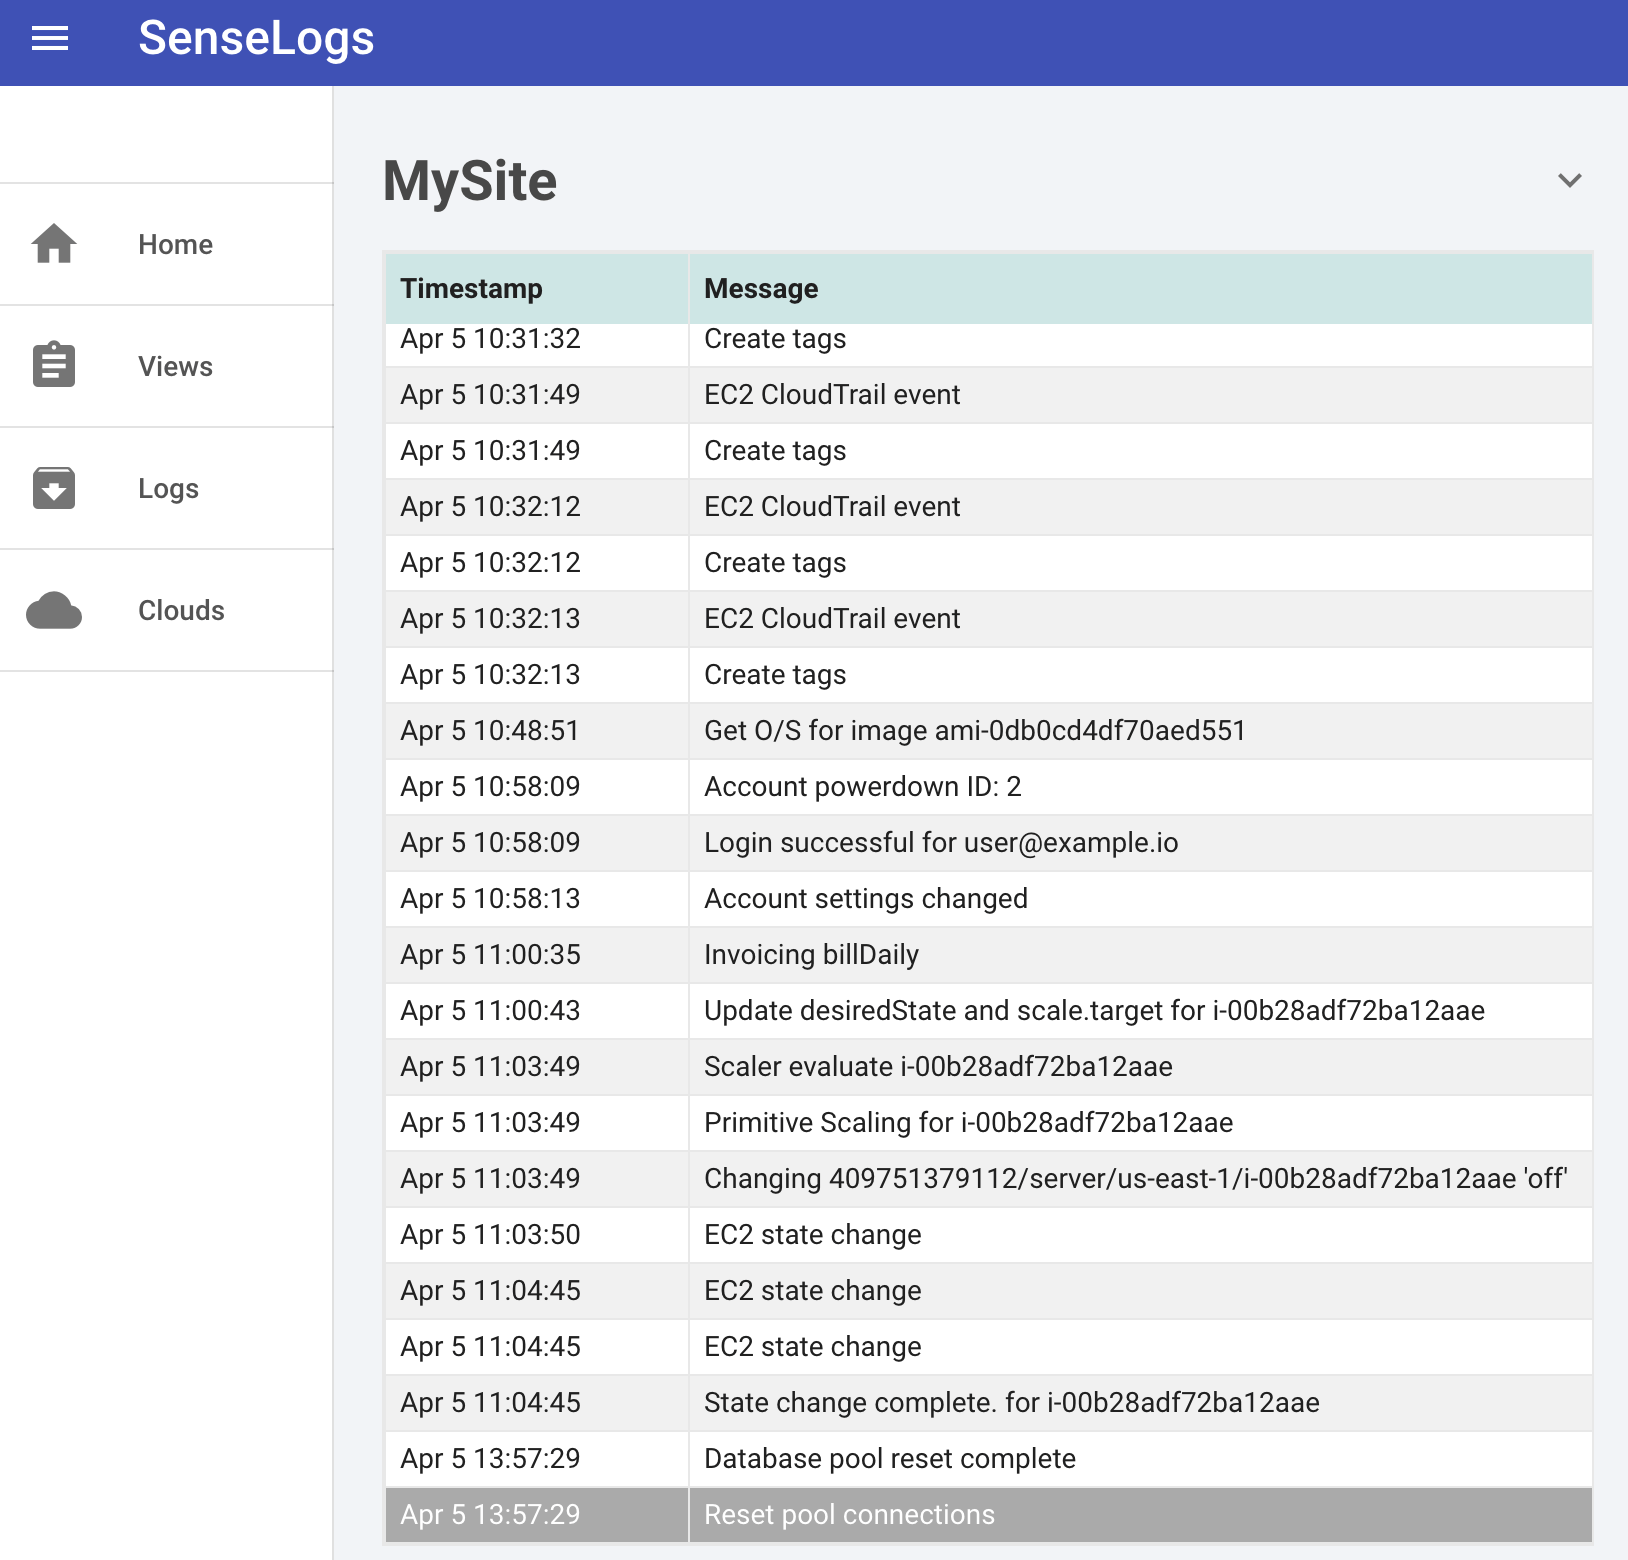
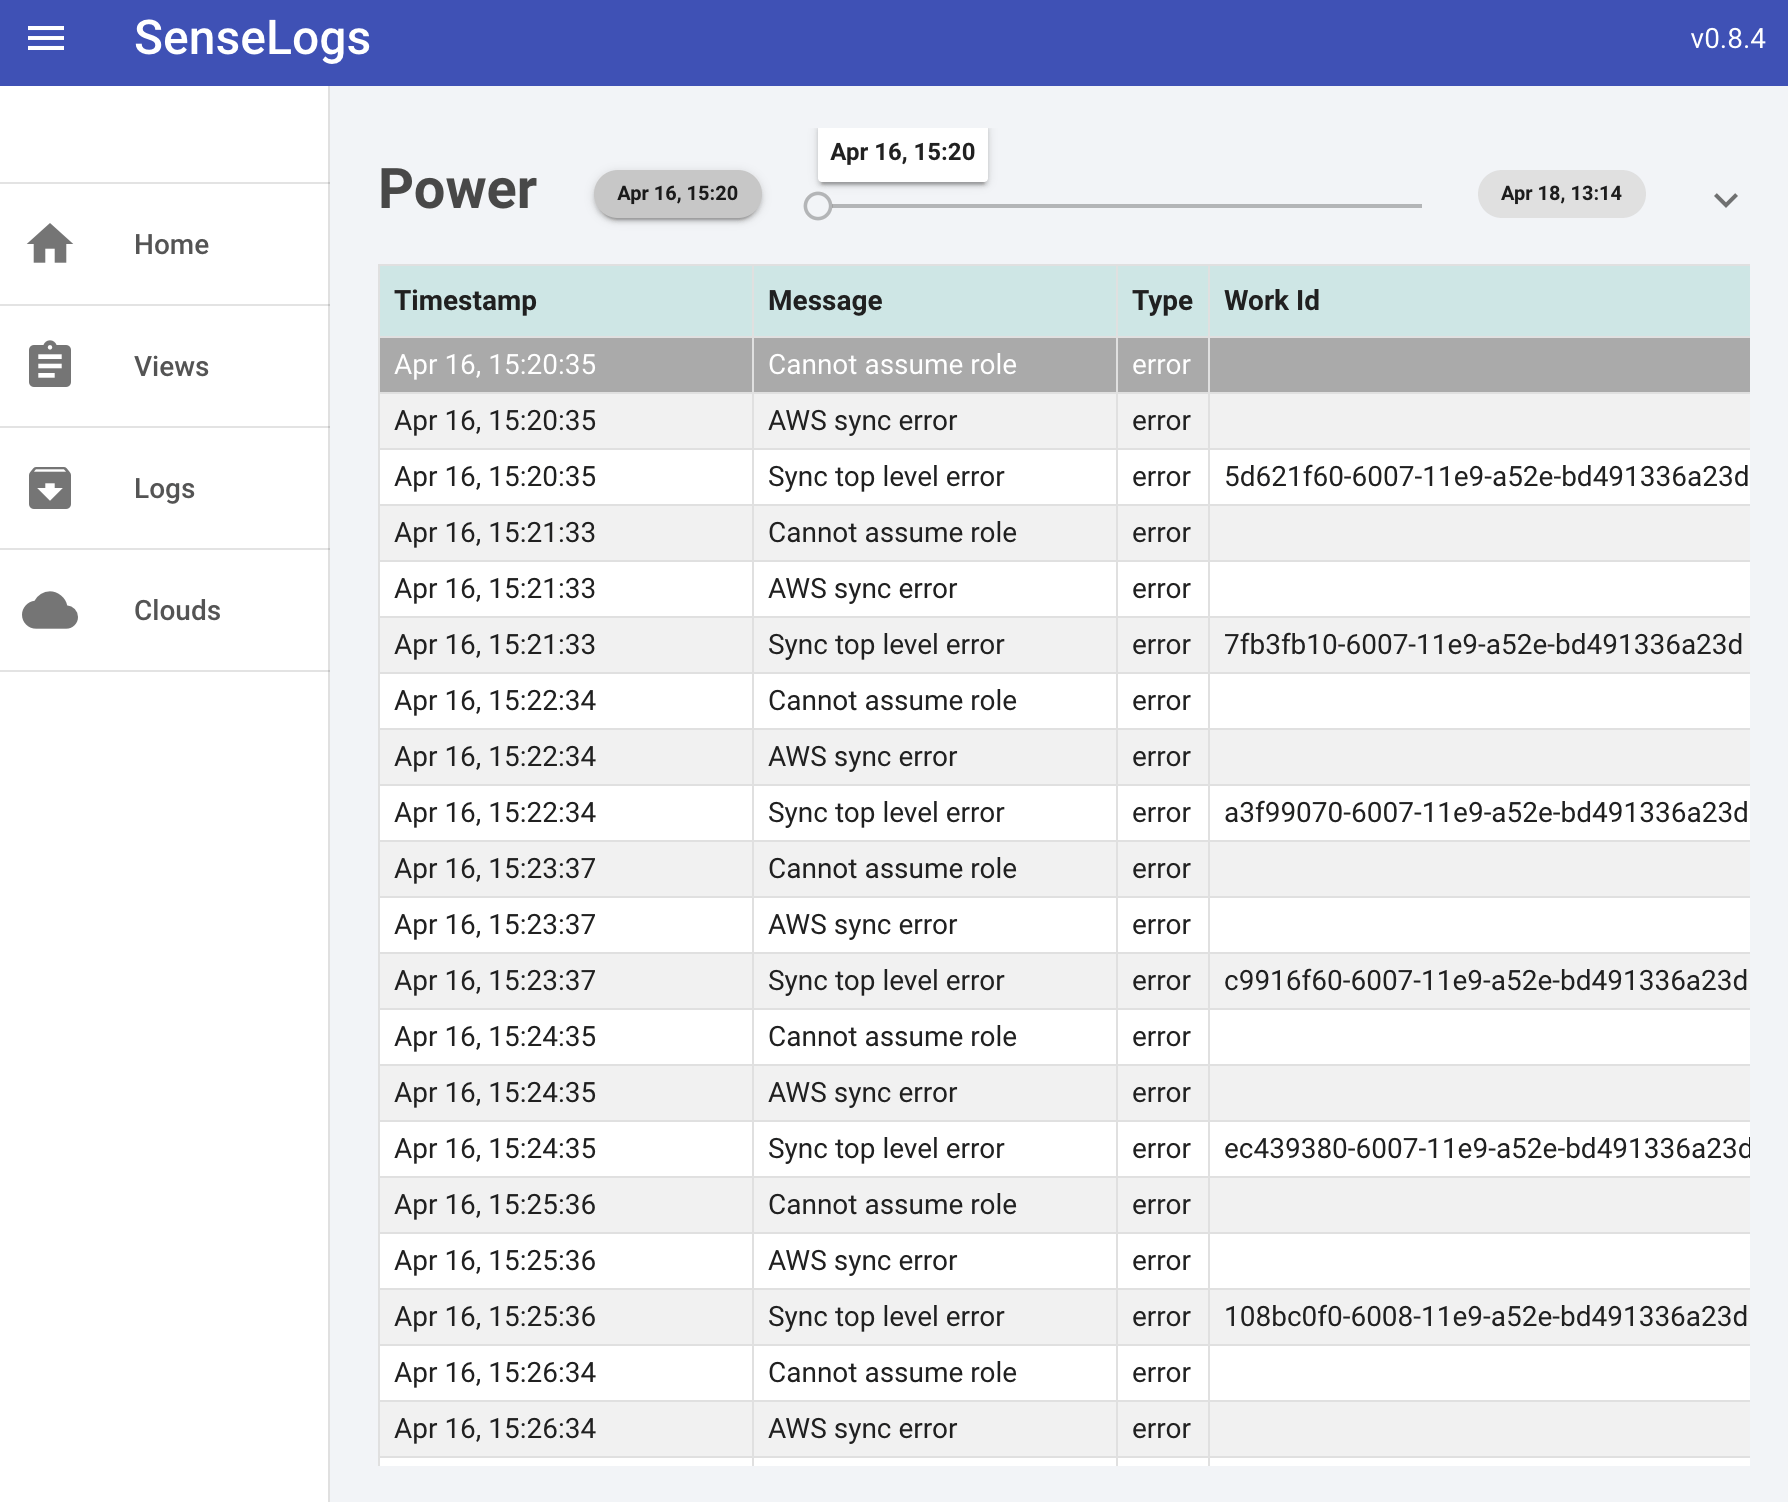
DOC: update images and README for 0.8.4

diff --git a/README.md b/README.md
@@ -39,7 +39,7 @@ This free version has some capacity limits. You can configure one AWS cloud acco
 
 There is nothing to install. Just navigate your browser to:
 
-[https://senselogs.senselogs.com/](https://senselogs.senselogs.com/)
+[https://senselogs.sensedeep.com/](https://senselogs.sensedeep.com/)
 
 SenseLogs is a single page application that will render in your browser. SenseLogs supports the Chrome, Firefox and Safari desktop browsers.
 
@@ -59,15 +59,31 @@ https://github.com/sensedeep/senselogs/issues
 
 ### Cloud Credentials
 
-To start using SenseLogs, you need to add an AWS cloud credential to enable access to your AWS Cloud Watch Logs.
+To start using SenseLogs, you need to add an AWS cloud credential to enable read-only access to your AWS Cloud Watch Logs.
 
-Your credentials are stored locally, in your browser cache and accessible only to the SenseLogs application in your browser. The credentials are only provided to the AWS SDK running in your browser and are not transmitted or shared with any other party.
+Your credentials are stored locally, in encrypted your browser cache and accessible only to the SenseLogs application in your browser. The credentials are only provided to the AWS SDK running in your browser and are not transmitted or shared with any other party.
 
 ![SenseLogs Add View Image](https://raw.githubusercontent.com/sensedeep/senselogs/master/images/cloud-add.png)
 
 Your AWS cloud credentials can be any AWS IAM access key and secret access key. If you wish, you can restrict the access rights granted to SenseLogs by creating a dedicated IAM user and access key with the policy:
 
-[https://senselogs.senselogs.com/iam_policy.json](https://senselogs.senselogs.com/iam_policy.json)
+```
+{
+  "Version": "2012-10-17",
+  "Statement": [{
+      "Sid": "ReadOnlyAccess",
+      "Action": [
+          "logs:DescribeLogGroups",
+          "logs:DescribeLogStreams",
+          "logs:GetLogEvents"
+      ],
+      "Resource": "*",
+      "Effect": "Allow"
+  }]
+}
+```
+
+This policy grants read-only access to get AWS logs and streams and get logs events.
 
 When you enter your cloud credentials, you must also enter the AWS region containing your logs.
 
@@ -87,11 +103,15 @@ From the home page, select the log view to display by clicking on the view card.
 
 ![SenseLogs Home Page Image](https://raw.githubusercontent.com/sensedeep/senselogs/master/images/home.png)
 
-From the viewer, you can scroll forwards and backwards over log data. SenseLogs will transparently download log data as required for display.
+This will launch the viewer for that log view.
 
 ![SenseLogs Viewer Image](https://raw.githubusercontent.com/sensedeep/senselogs/master/images/viewer.png)
 
+From the viewer, you can scroll forwards and backwards over log data. SenseLogs will transparently download log data as required for display.
+
 The first and last log events are highlighted with a reverse grey background.
+
+You can also drag the horizontal slider to position the view at the desired date. The start and end date pill buttons can be used to jump to the start and end of the event stream.
 
 Event column widths can be resized by dragging the column separator in the title (only) to the desired width. Your changes will be persisted.
 
